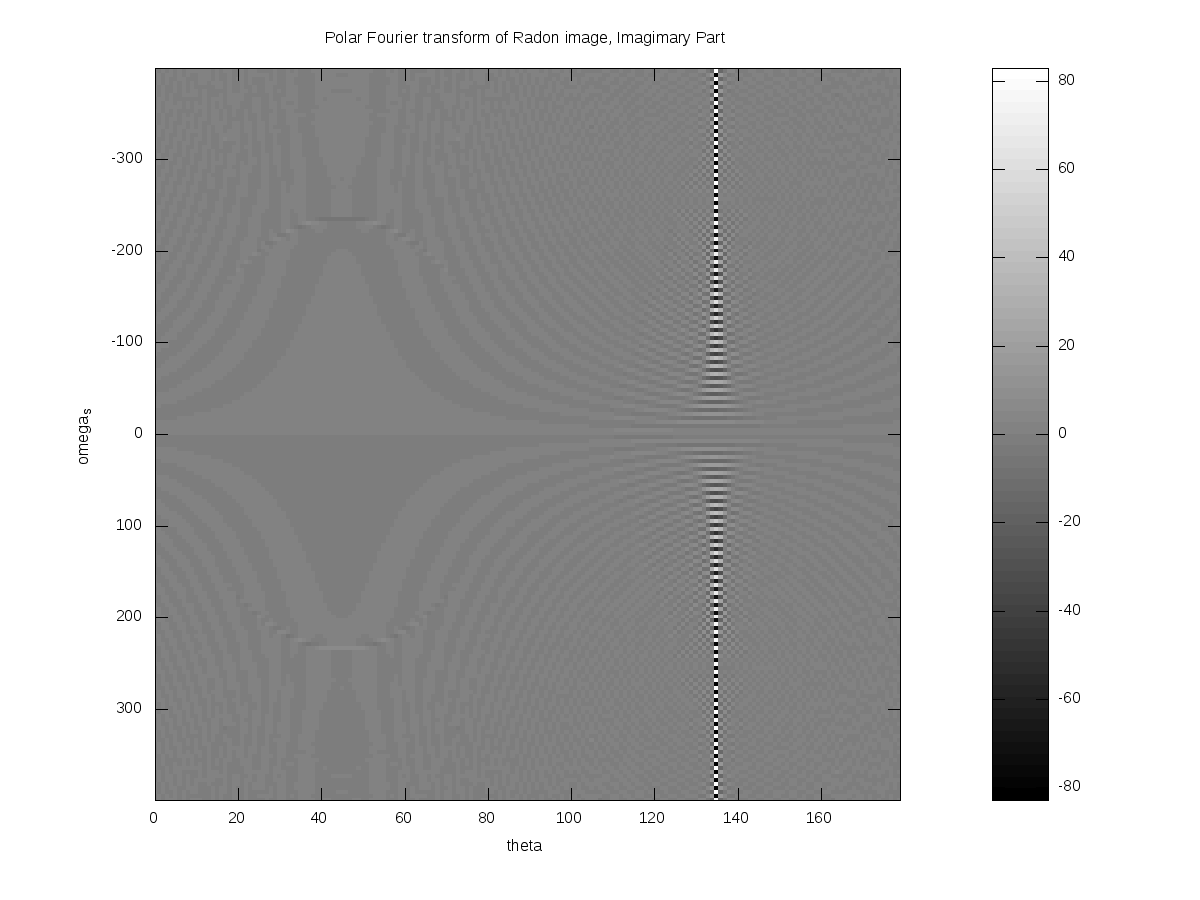
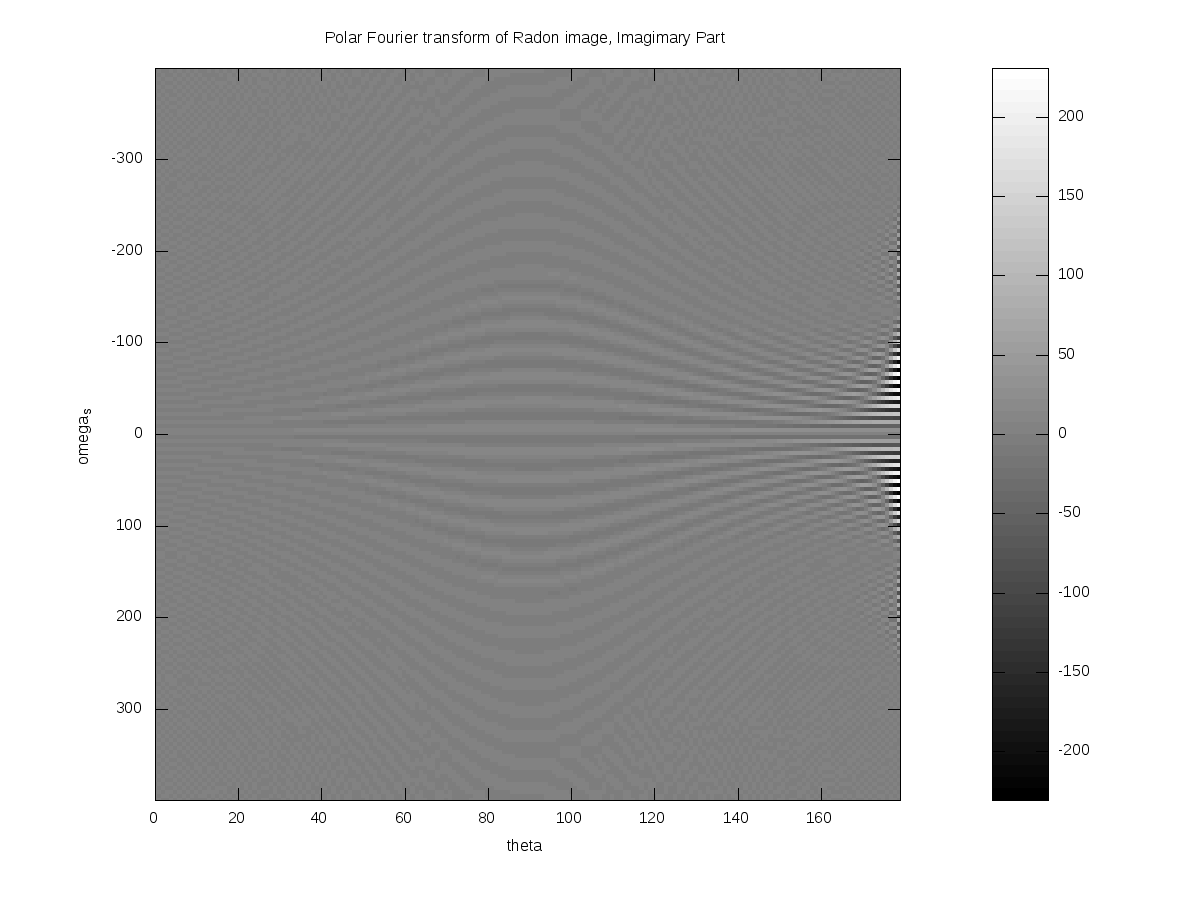
Add phantom stripe

diff --git a/run.m b/run.m
@@ -18,8 +18,17 @@ N=128;
 %P = zeros(N);
 %P(12,12)=1;
 
-% a straight line
-P=eye(N);
+% a stripe
+T=6;
+P=[zeros(N,(N-T)/2) ones(N,T) zeros(N,(N-T)/2)];
+
+% a square
+%T=30;
+%P=[zeros(N,(N-T)/2) ones(N,T) zeros(N,(N-T)/2)];
+%P=P'.*P; %image of square
+
+% a 45deg straight line
+%P=eye(N);
 
 % Determine the range of x and y
 x = linspace(-N/2,N/2,N);
@@ -33,7 +42,7 @@ print -dpng 1_phantom.png
 
 %% Apply radon transformation Rf
 theta=linspace(0,179,180);
-Rf = radon(P,theta+90);
+Rf = radon(P,theta);
 
 % Determine the range of s
 s_max=sqrt( max(x)^2 + max(y)^2 );
